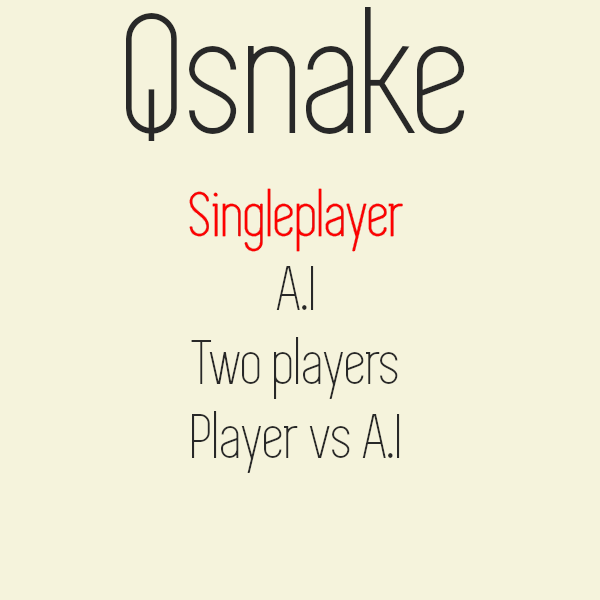
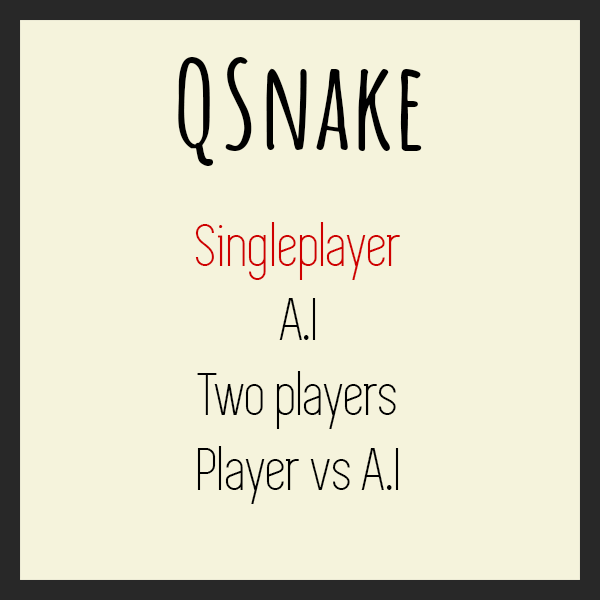
Change menu

Changed region(s): [[0.0, 0.0, 1.0, 1.0], [0.75, 0.18, 0.78, 0.21]]

diff --git a/menu.py b/menu.py
@@ -13,14 +13,14 @@ modes = ["singleplayer", "ai", "twoplayer", "playerai"]
 def main():
     menu()
        
-def menu(mainloop=True):    
+def menu(mainloop=True, mode=0):    
     pygame.init()    
     pygame.display.set_caption("QSnake")    
     if mainloop:
         screen = pygame.display.set_mode((WIDTH, HEIGHT))
-        screen.blit(images[0], (0, 0))
+        screen.blit(images[mode%4], (0, 0))
         pygame.display.flip()
-        last_mode, mode = 0, 0
+        last_mode = mode
         clock = pygame.time.Clock()
         wait_time, time = 250, 250
         while mainloop:

diff --git a/ai.py b/ai.py
@@ -10,8 +10,8 @@ from keypress import register_quit
 WIDTH = 30
 HEIGHT = 30
 PX_SIZE = 20
-DATA = "./data/data15/"
-#DATA = "./data/data6/"
+#DATA = "./data/data15/"
+DATA = "./data/data6/"
 GRAPHICS = True
 TRAINING = False
 
@@ -85,7 +85,7 @@ def main():
         scores.append(player.score)
         player.clean_tail()
         if go_to_menu:
-            menu.menu()
+            menu.menu(mode=1)
             break
         if not mainloop:
             pygame.quit()

diff --git a/playerai.py b/playerai.py
@@ -76,7 +76,7 @@ def main():
         player.clean_tail()
         player_ai.clean_tail()
         mainloop, quit_game = wait_continue(mainloop, quit_game)        
-    menu.menu(not quit_game)
+    menu.menu(not quit_game, mode=3)
 
 def wait_start(mainloop, quit_game):
     ''' Wait for input at the start of the game '''

diff --git a/twoplayer.py b/twoplayer.py
@@ -73,7 +73,7 @@ def main():
         continue_game = False
         mainloop, quit_game = wait_continue(mainloop, quit_game)
         
-    menu.menu(not quit_game)
+    menu.menu(not quit_game, mode=2)
 
 
 def wait_start(mainloop):
